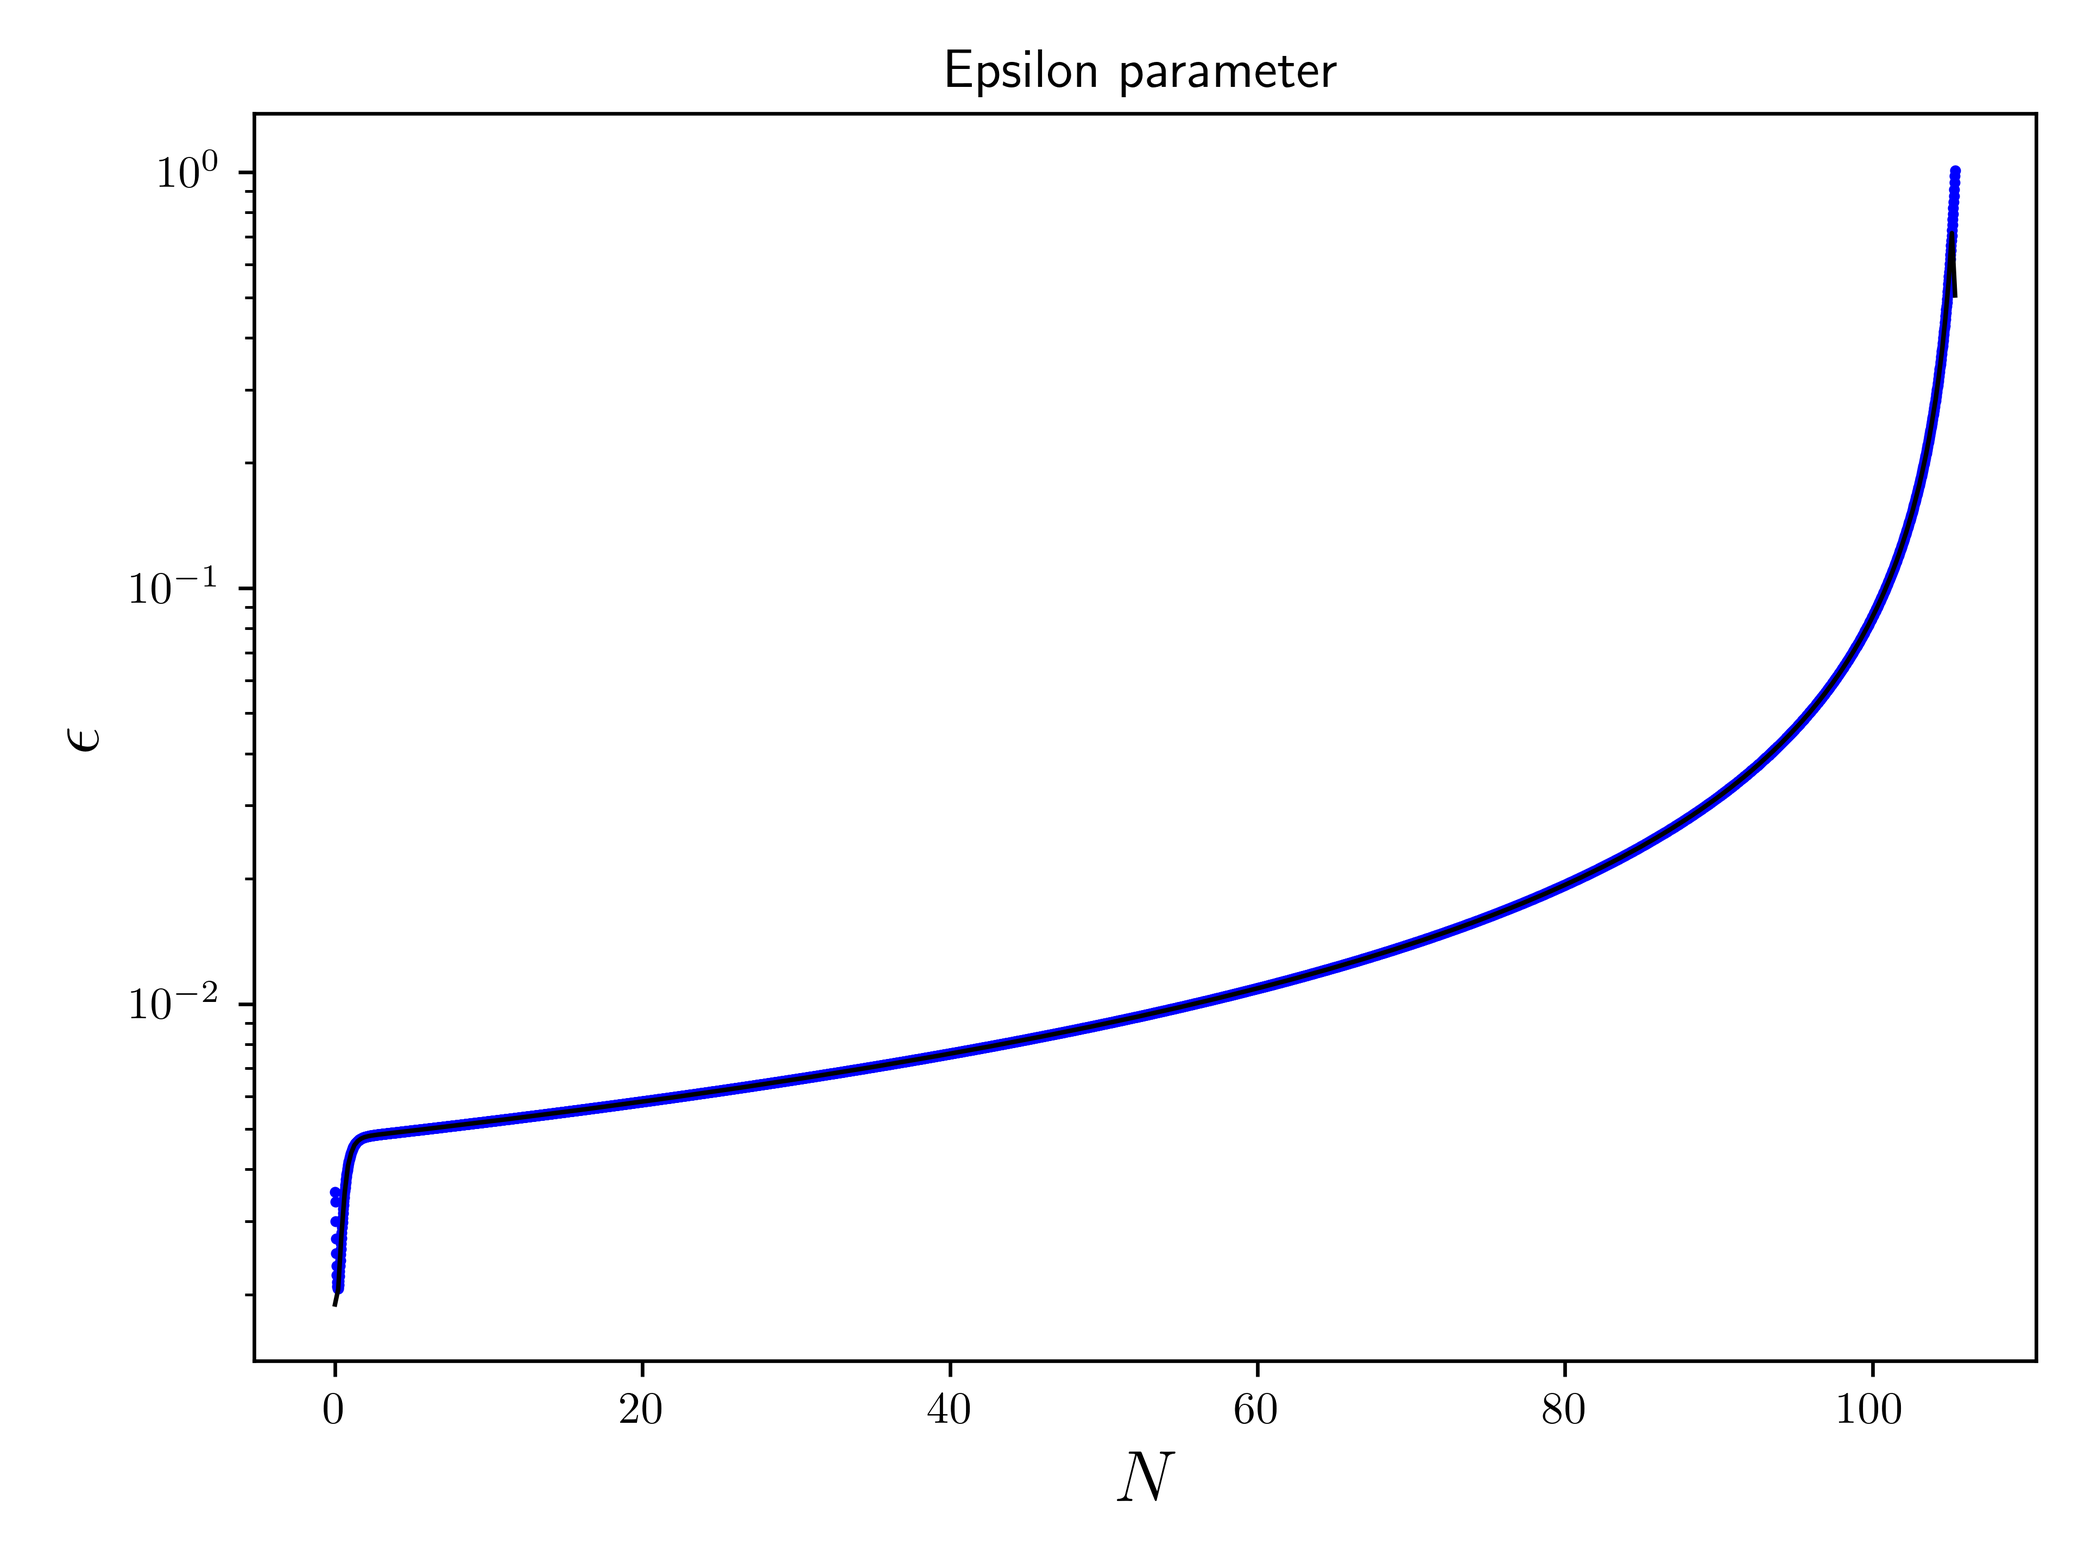
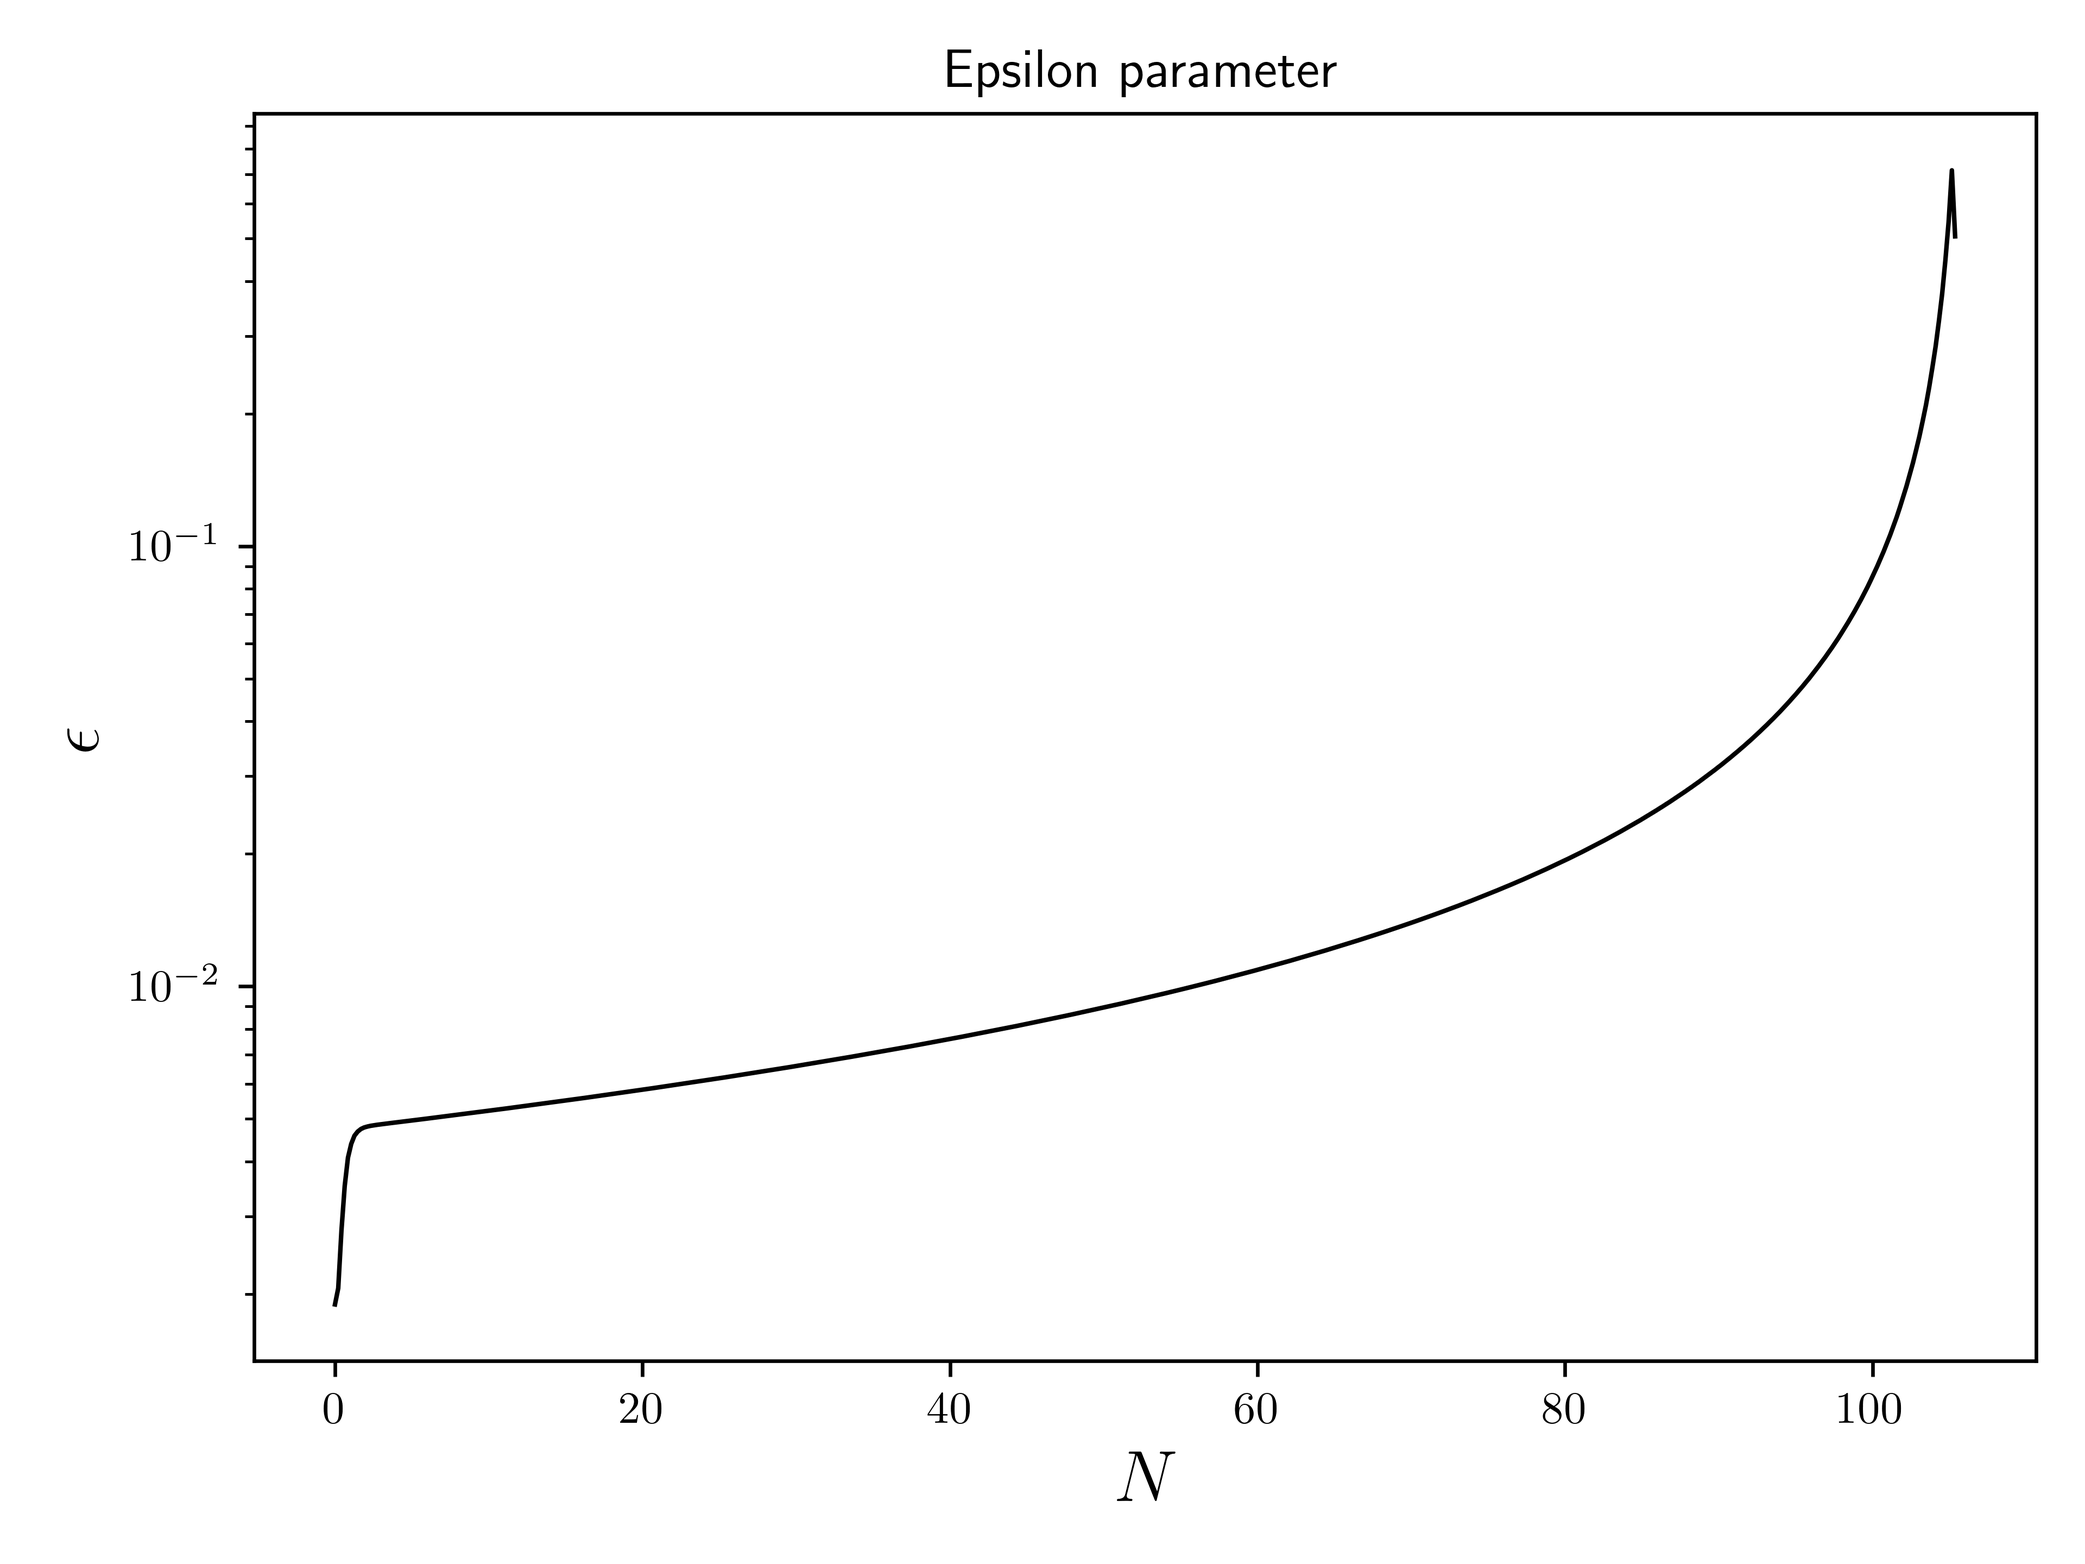
Transfer funcs

diff --git a/slowroll.py b/slowroll.py
@@ -23,45 +23,16 @@ PyTransSetup.pathSet()
 import PyTransOrbital as PyT
 
 
-def get_Hs(back: np.ndarray, params: dict) -> tuple:
-    pval = np.array(list(params.values()))
-    Hs = np.array([PyT.H(elem, pval) for elem in back[:, 1:]])
-    return np.hstack((back[:, 0].reshape(-1,1), Hs.reshape(-1,1)))
-
-def get_H_func(back: np.ndarray, params: dict) -> Callable:
-    phix, phiy, phidotx, phidoty = get_background_func(back)
-    pval = np.array(list(params.values()))
+def get_H(phix: Callable, phiy: Callable, phidotx: Callable, phidoty: Callable, pval: np.ndarray) -> Callable:
     return lambda N: PyT.H(np.array((phix(N),phiy(N), phidotx(N), phidoty(N))), pval)
 
-def get_epsilons(back: np.ndarray, params: dict) -> tuple:
-    dN = back[1, 0] - back[0, 0]
-    Hs = get_Hs(back, params)[:, 1]
-    epsilons = -np.gradient(Hs, dN)/Hs
-    return np.hstack((back[:, 0].reshape(-1,1), epsilons.reshape(-1,1)))
-
-def get_epsilon_func(back: np.ndarray, params: dict) -> Callable:
-    H = get_H_func(back, params)
+def get_epsilon(H: Callable) -> Callable:
     return lambda N: -derivative(H, N, dx=1e-6) / H(N)
 
-def get_phi_primes(back: np.ndarray, params: dict) -> tuple:
-    nF = PyT.nF()
-    Hs = get_Hs(back, params)[:, 1]
-    phi_primes = (back[:, nF+1:].T / Hs).T
-    return np.hstack((back[:, 0].reshape(-1,1), phi_primes))
+def get_phiprime(phidotx: Callable, phidoty: Callable, H: Callable) -> Callable:
+    return lambda N: np.array([phidotx(N), phidoty(N)]) / H(N)
 
-def get_phi_prime_func(back: np.ndarray, params: dict) -> Callable:
-    _, _, phidotx, phidoty = get_background_func(back)
-    H_func = get_H_func(back, params)
-    return lambda N: np.array([phidotx(N), phidoty(N)]) / H_func(N)
-
-def get_phi_double_primes(back: np.ndarray, params: dict) -> tuple:
-    dN = back[1, 0] - back[0, 0]
-    phi_primes = get_phi_primes(back, params)[:, 1:]
-    phi_double_primes = np.gradient(phi_primes.T, dN, axis=1).T
-    return np.hstack((back[:, 0].reshape(-1,1), phi_double_primes))
-
-def get_phi_double_prime_func(back: np.ndarray, params: dict) -> Callable:
-    phiprime = get_phi_prime_func(back, params)
+def get_phidoubleprime(phiprime: Callable) -> Callable:
     return lambda N: derivative(phiprime, N, dx=1e-6)
 
 def get_metric_sympy():
@@ -70,32 +41,20 @@ def get_metric_sympy():
 
     return G
 
-def get_metric_fieldsfunc(params: dict) -> Callable:
-    nF = PyT.nF()
+def get_metric_field(pval: np.ndarray) -> Callable:
     G = get_metric_sympy()
-    pval = list(params.values())
     params_subs = {'p_'+str(ii): pval[ii] for ii in range(len(pval))}
 
-    return lambdify(['f_'+str(ii) for ii in range(nF)], G.subs(params_subs))
+    return lambdify(['f_'+str(ii) for ii in range(PyT.nF())], G.subs(params_subs))
 
-def get_metric_func(back: np.ndarray, params: dict) -> Callable:
-    G_fieldsfunc = get_metric_fieldsfunc(params)
-    phix, phiy, *_ = get_background_func(back)
-
+def get_metric(G_fieldsfunc: Callable, phix: Callable, phiy: Callable) -> Callable:
     return lambda N: G_fieldsfunc(phix(N), phiy(N))
 
-def get_metrics(back: np.ndarray, params: dict) -> np.ndarray:
-    nF = PyT.nF()
-    phis = back[:, 1:nF+1]    
-    G = get_metric_fieldsfunc(params)
-    return np.array([G(phi[0], phi[1]) for phi in phis])
-
-def get_christoffel_fieldfunc(params: dict) -> List[Callable]:
+def get_christoffel_field(pval: np.ndarray) -> List[Callable]:
     nF, nP = PyT.nF(), PyT.nP()
     Gamma_sympy = PyTransSetup.fieldmetric(get_metric_sympy(), nF, nP)[1]
 
     Gamma_func = np.empty((nF, nF, nF)).tolist()
-    pval = list(params.values())
     params_subs = {'p_'+str(ii): pval[ii] for ii in range(len(pval))}
     for aa, (bb, cc) in product(range(1, nF+1), combinations_with_replacement(range(1, nF+1), 2)):
         Gamma_func[aa-1][bb-1][cc-1] = Gamma_sympy(-aa, bb, cc).subs(params_subs)
@@ -104,120 +63,53 @@ def get_christoffel_fieldfunc(params: dict) -> List[Callable]:
 
     return lambdify(['f_'+str(ii) for ii in range(nF)], Gamma_func)
 
-def get_christoffel_func(back: np.ndarray, params: dict) -> List[Callable]:
-    Gamma_fieldsfunc = get_christoffel_fieldfunc(params)
-    phix, phiy, *_ = get_background_func(back)
-
+def get_christoffel(Gamma_fieldsfunc: Callable, phix: Callable, phiy: Callable) -> List[Callable]:
     return lambda N: Gamma_fieldsfunc(phix(N), phiy(N))
 
-def get_christoffels(back: np.ndarray, params: dict) -> np.ndarray:
-    nF = PyT.nF()
-    phis = back[:, 1:nF+1]
-    Gamma_func = get_christoffel_fieldfunc(params)
-    Gammas = np.array([Gamma_func(phi[0], phi[1]) for phi in phis])
+def get_eta(phidoubleprime: Callable, Gamma: Callable, phiprime: Callable) -> Callable:
+    return lambda N: phidoubleprime(N) + phiprime(N) @ Gamma(N) @ phiprime(N)
 
-    return Gammas
-
-def get_etas(back: np.ndarray, params: dict) -> np.ndarray:
-    nF = PyT.nF()
-    Gammas = get_christoffels(back, params)
-    phi_primes = get_phi_primes(back, params)[:, 1:]
-    etas = get_phi_double_primes(back, params)[:, 1:]
-    for ii in range(len(back[:, 0])):
-        for aa in range(nF):
-            etas[ii, aa] += sum([Gammas[ii, aa, bb, cc] * phi_primes[ii, bb] * phi_primes[ii, cc]
-                                for bb, cc in product(range(nF), repeat=2)])
-
-    return np.hstack((back[:, 0].reshape(-1, 1), etas))
-
-def get_eta_func(back: np.ndarray, params: dict) -> Callable:
-    nF = PyT.nF()
-    Gammas = get_christoffel_func(back, params)
-    phi_prime = get_phi_prime_func(back, params)
-
-    return lambda N: get_phi_double_prime_func(back, params)(N) + phi_prime(N) @ Gammas(N) @ phi_prime(N)
-
-def get_kin_basis(back: np.ndarray, params: dict) -> np.ndarray:
-    nF = PyT.nF()
-    Gs = get_metrics(back, params)
-    etas = get_etas(back, params)[:, 1:]
-    eplls = np.array([epll(Gs[ii], back[ii, nF+1:]) for ii in range(len(back[:, 0]))])
-    eperps = np.array([eperp2d(Gs[ii], back[ii, nF+1:], etas[ii]) for ii in range(len(back[:, 0]))])
-    return np.hstack((back[:, 0].reshape(-1,1), eplls, eperps))
-
-def get_kin_basis_func(back: np.ndarray, params: dict) -> Callable:
-    _, _, phidotx, phidoty = get_background_func(back)
-    G = get_metric_func(back, params)
-    eta = get_eta_func(back, params)
-
+def get_kinbasis(G: Callable, phidotx: Callable, phidoty: Callable, eta: Callable) -> Callable:
     return lambda N: epll(G(N), np.array([phidotx(N), phidoty(N)])), \
         lambda N: eperp2d(G(N), np.array([phidotx(N), phidoty(N)]), eta(N))
 
-def get_eta_parallel_perp(back: np.ndarray, params: dict) -> np.ndarray:
-    nF = PyT.nF()
-    Gs = get_metrics(back, params)
-    etas = get_etas(back, params)[:, 1:]
-    eplls, eperps = get_kin_basis(back, params)[:, 1:nF+1], get_kin_basis(back, params)[:, nF+1:]
-    etaplls = np.array([dotG(Gs[ii], etas[ii], eplls[ii]) for ii in range(len(back[:, 0]))])
-    etaperps = np.array([dotG(Gs[ii], etas[ii], eperps[ii]) for ii in range(len(back[:, 0]))])
+def get_eta_parallelperp(G: Callable, eta: Callable, epll: Callable, eperp: Callable) -> np.ndarray:
+    return lambda N: dotG(G(N), eta(N), epll(N)), lambda N: dotG(G(N), eta(N), eperp(N))
 
-    return np.hstack((back[:, 0].reshape(-1,1), etaplls.reshape(-1,1), etaperps.reshape(-1,1)))
-
-def get_eta_parallel_perp_func(back: np.ndarray, params: dict) -> np.ndarray:
-    G = get_metric_func(back, params)
-    eta = get_eta_func(back, params)
-    eplls, eperps = get_kin_basis_func(back, params)
-
-    return lambda N: dotG(G(N), eta(N), eplls(N)), lambda N: dotG(G(N), eta(N), eperps(N))
-
-def get_mass_matrix_func(params: dict) -> Callable:
-    pval = np.array(list(params.values()))
-
+def get_mass_matrix(pval: np.ndarray) -> Callable:  # Needs Christoffel symbols here
     return lambda phi: PyT.ddV(phi, pval) / PyT.V(phi, pval) - np.outer(PyT.dV(phi, pval), PyT.dV(phi, pval)) / PyT.V(phi, pval)**2
 
-def get_mass_matrices(back: np.ndarray, params: dict) -> np.ndarray:
-    nF = PyT.nF()
-    phis = back[:, 1:nF+1]
-
-    return [get_mass_matrix_func(params)(phi) for phi in phis]
-
-def _beta(back: np.ndarray, params: dict) -> Callable:
-    pval = np.array(list(params.values()))
-    phix, phiy, phidotx, phidoty = get_background_func(back)
-    phi = lambda N: np.array([phix(N), phiy(N)])
-    phiphidot = lambda N: np.array([phix(N), phiy(N), phidotx(N), phidoty(N)])
-    eplls, eperps = get_kin_basis_func(back, params)
-    epsilon = get_epsilon_func(back, params)
-    _, etaperp = get_eta_parallel_perp_func(back, params)
-
-    return lambda N: -2*epsilon(N) - eperps(N) @ PyT.ddV(phi(N), pval) @ eperps(N) / PyT.V(phi(N), pval) + \
-        eplls(N) @ PyT.ddV(phi(N), pval) @ eplls(N) / PyT.V(phi(N), pval) - 2*etaperp(N)/(3*epsilon(N)*PyT.H(phiphidot(N), pval))
+def _beta(phix: Callable, phiy: Callable, phidotx: Callable, phidoty: Callable,
+            epsilon: Callable, epll: Callable, eperp: Callable, etaperp: Callable, pval: np.ndarray) -> Callable:
+    return lambda N: -2*epsilon(N) - eperp(N) @ PyT.ddV(np.array([phix(N), phiy(N)]), pval) @ eperp(N) / PyT.V(np.array([phix(N), phiy(N)]), pval) + \
+        epll(N) @ PyT.ddV(np.array([phix(N), phiy(N)]), pval) @ epll(N) / PyT.V(np.array([phix(N), phiy(N)]), pval) - \
+        2*etaperp(N)**2/(3*epsilon(N)*PyT.H(np.array([phix(N), phiy(N), phidotx(N), phidoty(N)]), pval)**2)
 
 
-def TSS(back: np.ndarray, params: dict, Nexit: float) -> Callable:
-    return lambda N: quad(_beta(back, params), Nexit, N)
+def TSS(beta: Callable, Nexit: float) -> Callable:
+    return lambda N: np.exp(quad(beta, Nexit, N))
 
 
 if __name__ == '__main__':
     nF, nP = PyT.nF(), PyT.nP()
     with open("./output/setup/params.json", "r") as file:
         params = json.loads(file.readline())
+    pval = np.array(list(params.values()))
     phi0 = np.array([20., 1.])
     phidot0 = np.array([0., 1.])
     initial = np.concatenate((phi0, phidot0))
     Nrange = (0, 200, 10_000)
     back = get_background(initial, params, Nrange)
+    phix, phiy, phidotx, phidoty = get_background_func(back)
 
     Nini, Nend = back[0, 0], back[-1, 0]
     Nexit = Nend - 55
 
-    Hs = get_Hs(back, params)
-    H_func = get_H_func(back, params)
+    H = get_H(phix, phiy, phidotx, phidoty, pval)
 
     num_points = 500
     Nplot = np.linspace(Nini, Nend, num_points)
-    plt.plot(Nplot, [H_func(_) for _ in Nplot], c="k", linewidth=1, linestyle='--')
-    plt.scatter(Hs[:, 0], Hs[:, 1], c="b", s=2)
+    plt.plot(Nplot, [H(_) for _ in Nplot], c="k", linewidth=1, linestyle='--')
     plt.title('Hubble parameter')
     plt.xlabel(r'$N$', fontsize=16)
     plt.ylabel(r'$H$', fontsize=16)
@@ -226,10 +118,8 @@ if __name__ == '__main__':
     plt.savefig("./output/background/Hs.png")
     plt.clf()
 
-    epsilons = get_epsilons(back, params)
-    epsilon_func = get_epsilon_func(back, params)
-    plt.plot(Nplot, [epsilon_func(_) for _ in Nplot], c="k", linewidth=1)
-    plt.scatter(epsilons[:, 0], epsilons[:, 1], c="b", s=2)
+    epsilon = get_epsilon(H)
+    plt.plot(Nplot, [epsilon(_) for _ in Nplot], c="k", linewidth=1)
     plt.title('Epsilon parameter')
     plt.xlabel(r'$N$', fontsize=16)
     plt.ylabel(r'$\epsilon$', fontsize=16)
@@ -238,40 +128,18 @@ if __name__ == '__main__':
     plt.savefig("./output/background/epsilons.png")
     plt.clf()
 
-    phiprimes = get_phi_primes(back, params)
-    phidoubleprimes = get_phi_double_primes(back, params)
+    phiprime = get_phiprime(phidotx, phidoty, H)
+    phidoubleprime = get_phidoubleprime(phiprime)
+    G_fieldsfunc = get_metric_field(pval)
+    G = get_metric(G_fieldsfunc, phix, phiy)
+    Gamma_fieldfunc = get_christoffel_field(pval)
+    Gamma = get_christoffel(Gamma_fieldfunc, phix, phiy)
+    eta = get_eta(phidoubleprime, Gamma, phiprime)
+    epll1, eperp1 = get_kinbasis(G, phidotx, phidoty, eta)
+    etapll, etaperp = get_eta_parallelperp(G, eta, epll1, eperp1)
+    M = get_mass_matrix(pval)
 
-    print(phiprimes[len(phiprimes)//2, 1:])
-    print(get_phi_prime_func(back, params)(phiprimes[len(phiprimes)//2, 0]))
-
-    print(phidoubleprimes[len(phidoubleprimes)//2, 1:])
-    print(get_phi_double_prime_func(back, params)(phidoubleprimes[len(phidoubleprimes)//2, 0]))
-
-    print(get_metrics(back, params)[len(back[:, 0])//2])
-    print(get_metric_func(back, params)(back[len(back[:, 0])//2, 0]))
-
-    print(get_christoffels(back, params)[len(back[:, 0])//2])
-    print(get_christoffel_func(back, params)(back[len(back[:, 0])//2, 0]))
-
-    print(get_etas(back, params)[len(back[:, 0])//2, 1:])
-    print(get_eta_func(back, params)(back[len(back[:, 0])//2, 0]))
-
-    print(get_kin_basis(back, params)[len(back[:, 0])//2, 1:])
-    print(get_kin_basis_func(back, params)[0](back[len(back[:, 0])//2, 0]))
-    print(get_kin_basis_func(back, params)[1](back[len(back[:, 0])//2, 0]))
-
-    etaskin = get_eta_parallel_perp(back, params)
-    etaplls, etaperps = etaskin[:, 1], etaskin[:, 2]
-    etapll_func, etaperp_func = get_eta_parallel_perp_func(back, params)
-
-    print(etaplls[len(etaplls)//2])
-    print(etapll_func(back[len(back[:, 0])//2, 0]))
-
-    print(etaperps[len(etaperps)//2])
-    print(etaperp_func(back[len(back[:, 0])//2, 0]))
-
-    plt.plot(Nplot, np.abs([etapll_func(_) for _ in Nplot]), c="k", linewidth=1)
-    plt.scatter(back[:, 0], np.abs(etaplls), c="b", s=2)
+    plt.plot(Nplot, np.abs([etapll(_) for _ in Nplot]), c="k", linewidth=1)
     plt.title('Eta parallel')
     plt.xlabel(r'$N$', fontsize=16)
     plt.ylabel(r'$\vert \eta_\parallel \vert$', fontsize=16)
@@ -280,8 +148,7 @@ if __name__ == '__main__':
     plt.savefig("./output/background/etaplls.png")
     plt.clf()
 
-    plt.plot(Nplot, [etaperp_func(_) for _ in Nplot], c="k", linewidth=1)
-    plt.scatter(back[:, 0], etaperps, c="b", s=2)
+    plt.plot(Nplot, [etaperp(_) for _ in Nplot], c="k", linewidth=1)
     plt.title('Eta perpendicular')
     plt.xlabel(r'$N$', fontsize=16)
     plt.ylabel(r'$\eta_\perp$', fontsize=16)
@@ -290,19 +157,11 @@ if __name__ == '__main__':
     plt.savefig("./output/background/etaperps.png")
     plt.clf()
 
-    omegas = etaperps / np.sqrt(2*epsilons[:, 1])
-    plt.plot(back[:, 0], omegas, c="k", linewidth=2)
-    plt.title('Turn rate')
-    plt.xlabel(r'$N$', fontsize=16)
-    plt.ylabel(r'$\omega$', fontsize=16)
-    plt.yscale('log')
-    plt.tight_layout()
-    plt.savefig("./output/background/omegas.png")
-    plt.clf()
+    beta = _beta(phix, phiy, phidotx, phidoty, epsilon, epll1, eperp1, etaperp, pval)
+    TSSf = TSS(beta, Nexit)
 
-    Nafter = np.linspace(Nexit, Nend, num_points)
-    TSSa = [TSS(back, params, Nexit)(N) for N in Nafter]
-    plt.plot(Nplot, TSSa, c='k')
+    Nafter = np.linspace(Nexit, Nend, 10)
+    plt.plot(Nafter, [TSSf(N)[0] for N in Nafter], c='k')
     plt.xlim([Nexit, Nafter[-1]])
     plt.title(r'$T_{SS}$ evolution',fontsize=16);
     plt.ylabel(r'$T_{SS}$', fontsize=20) 
